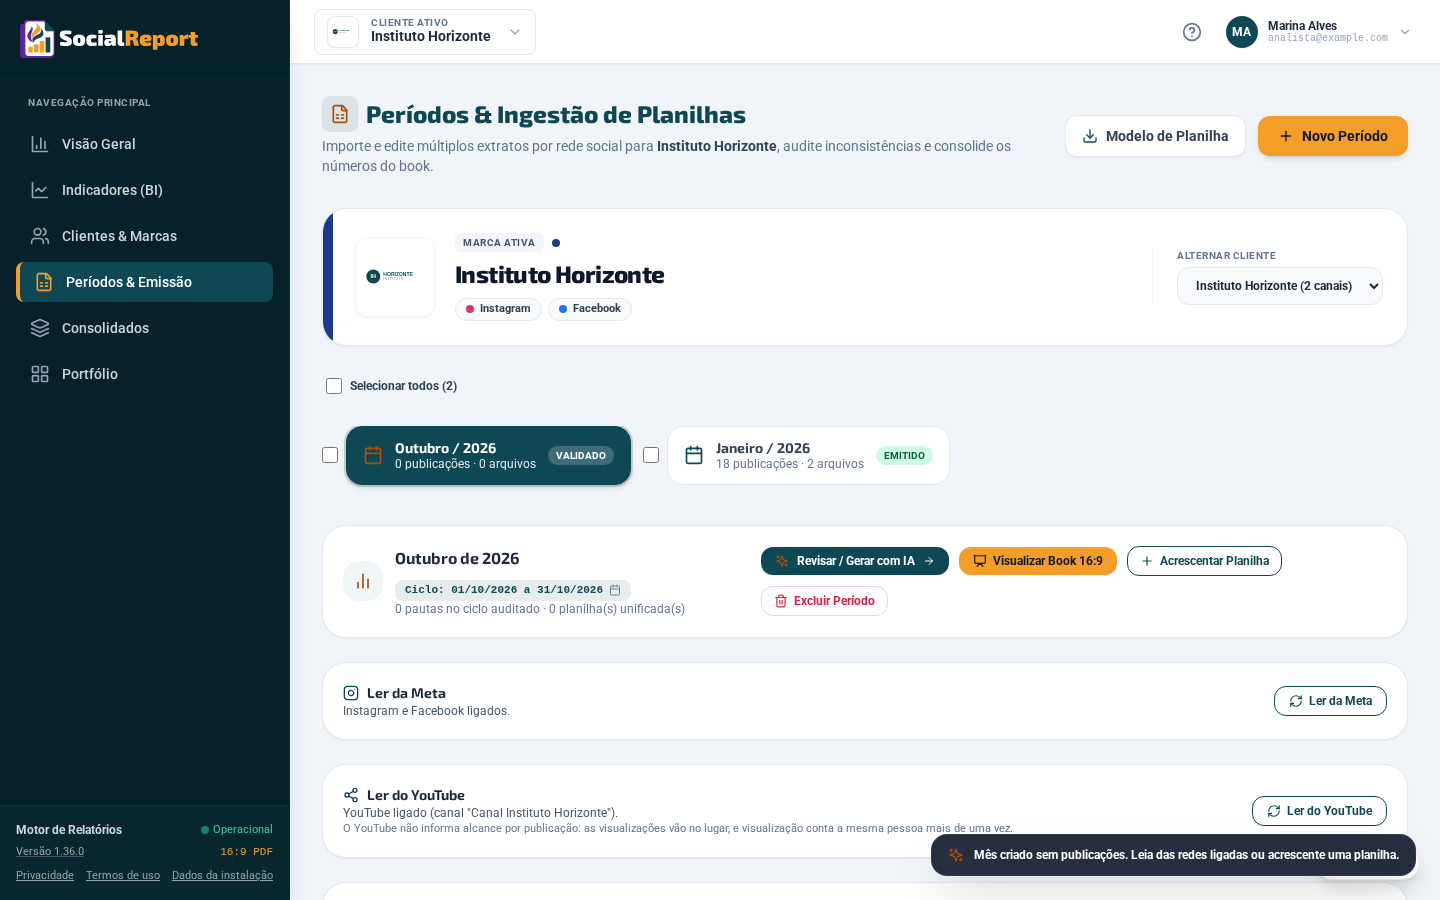
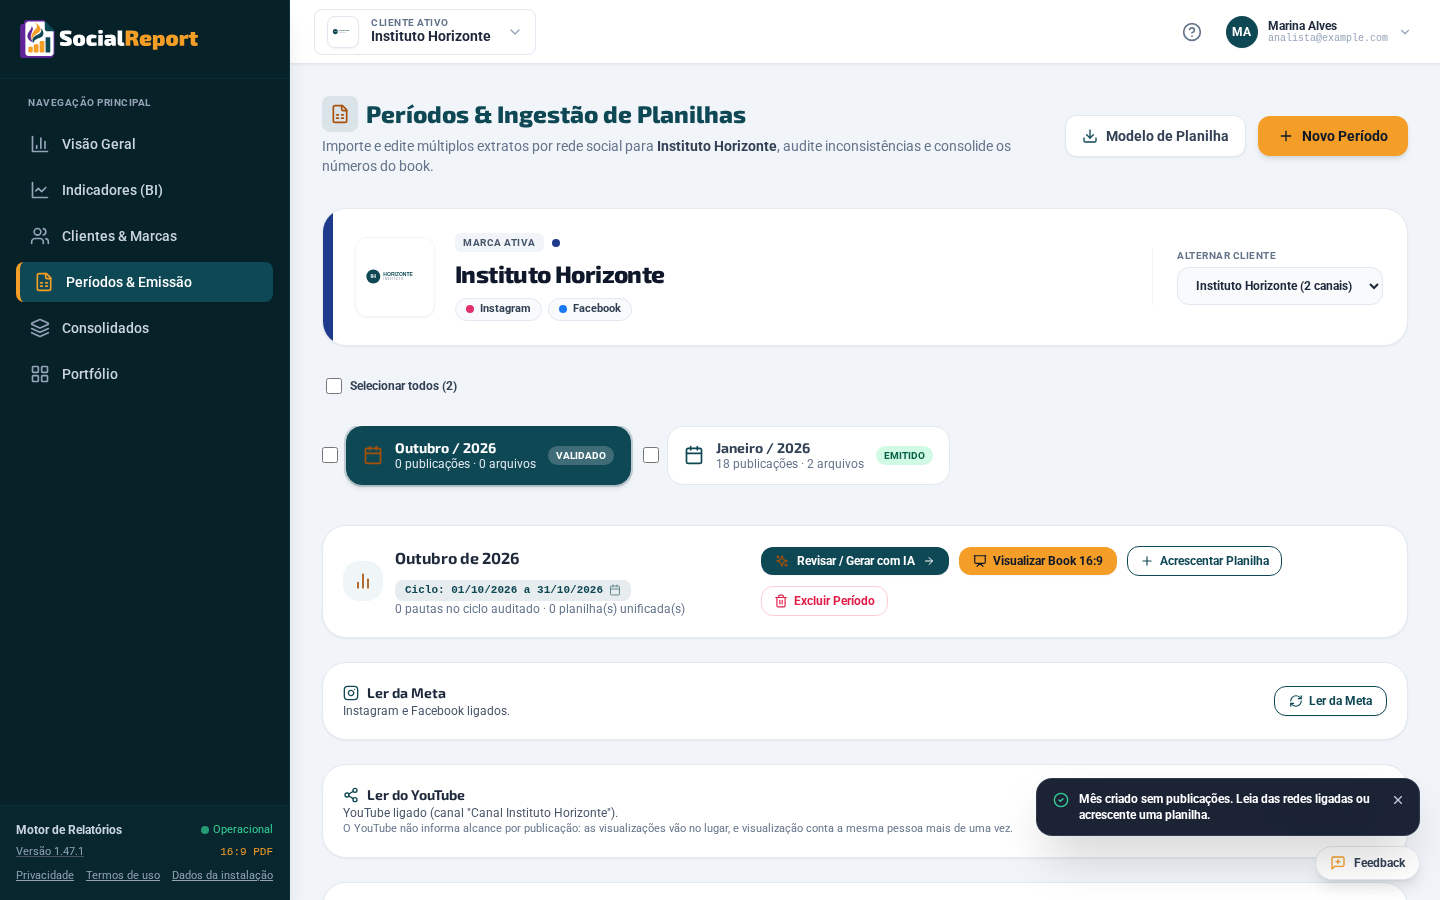
docs(manual): publica 2026-11-02

Changed region(s): [[0.625, 0.84, 1.0, 0.9956]]

diff --git a/ler-da-meta.md b/ler-da-meta.md
@@ -123,7 +123,7 @@ Na lista **Extratos Importados**, cada arquivo diz de onde vem: a leitura aparec
 
 Abra a **Revisão** do mês. Os avisos que só você vê ficam num **quadro único**, compacto, no alto da página, com o título **"Avisos da revisão (N)"** e um item por aviso. O quadro abre aberto, para você não perder nenhum aviso, e **recolhe** com um clique no título (os itens continuam lá, só escondidos). Sem avisos, o quadro não aparece. Quando o mês usa a leitura, ele inclui os avisos sobre o que merece conferência antes de emitir:
 
-![Quadro Avisos da revisão com três itens: falta de seguidores, seguidores reconstruídos do Instagram e do Facebook numa linha só e a contagem de Stories capturados do Instagram]({{ '/assets/img/app/app-98-revisao-quadro-avisos.png' | relative_url }})
+![Quadro Avisos da revisão, numa leitura feita antes da 1.47.1, com três itens: falta de seguidores, o aviso antigo de seguidores reconstruídos do Instagram e do Facebook e a contagem de Stories capturados do Instagram]({{ '/assets/img/app/app-98-revisao-quadro-avisos.png' | relative_url }})
 
 - **"Instagram e Facebook: o número de seguidores foi reconstruído para dd/mm/aaaa ..."** Este aviso só aparece em leituras feitas **antes da 1.47.1**, quando o Instagram calculava o número a partir do de hoje. Esse número saía menor que o real: leia o mês de novo (o campo do Instagram fica em branco, para você digitar o número do fim do mês) ou confira com o painel da rede.
 - **"Instagram e Facebook: o número de seguidores é o da foto mais próxima, de dd/mm/aaaa; a do último dia do mês não estava guardada. Confira."** A foto do último dia faltou, e valeu a de um dia até 3 dias de distância, com a data à vista.
